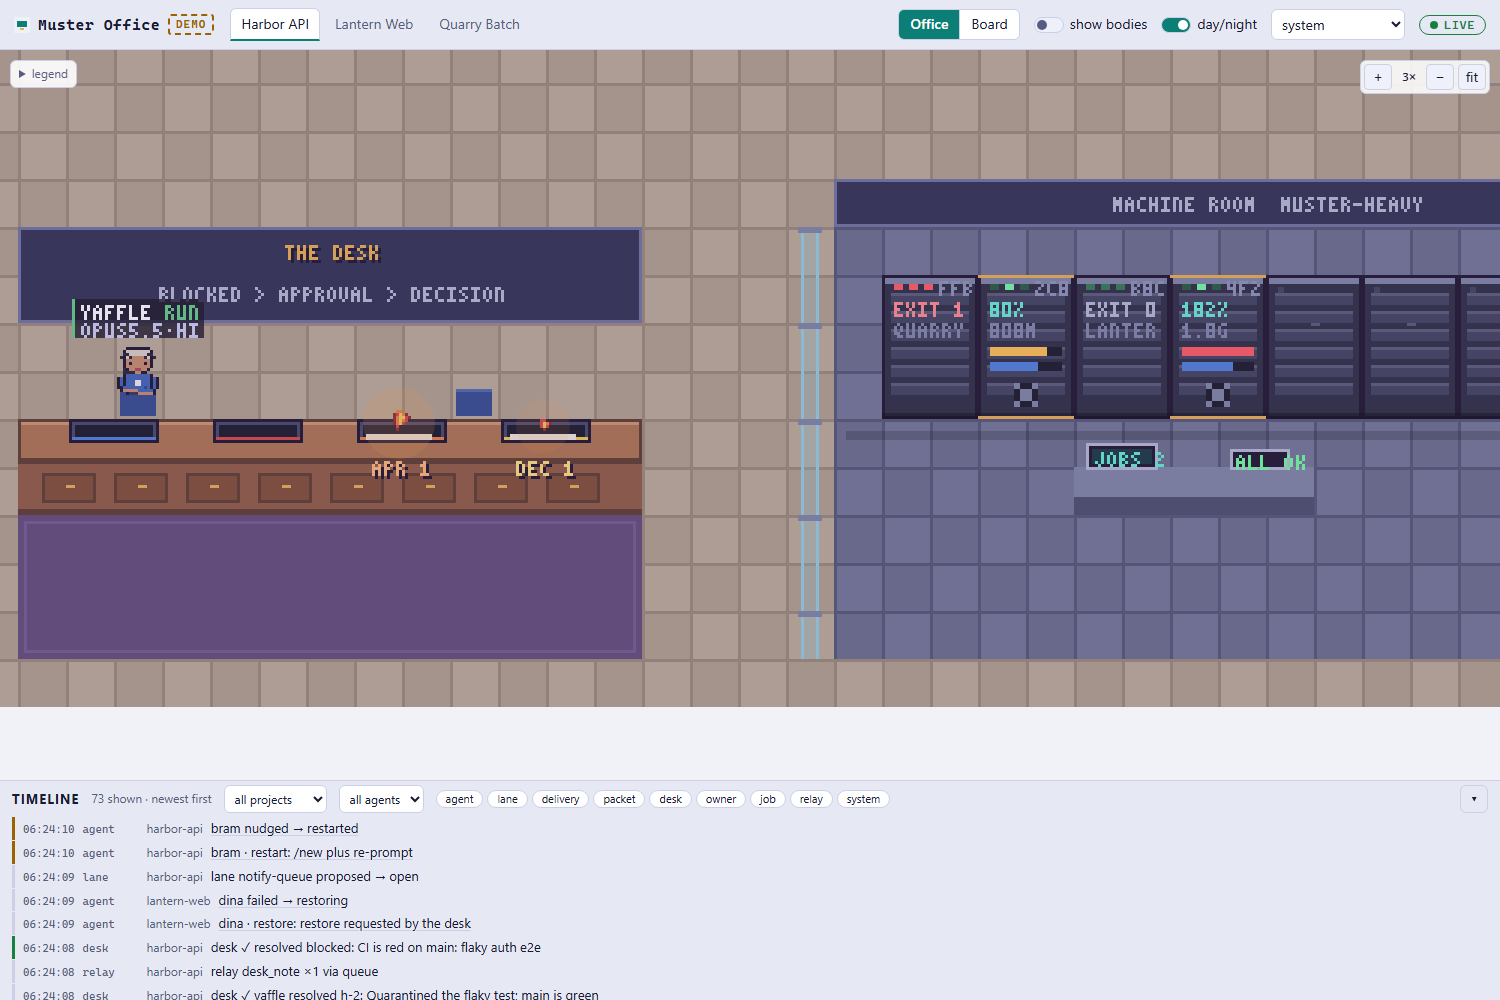
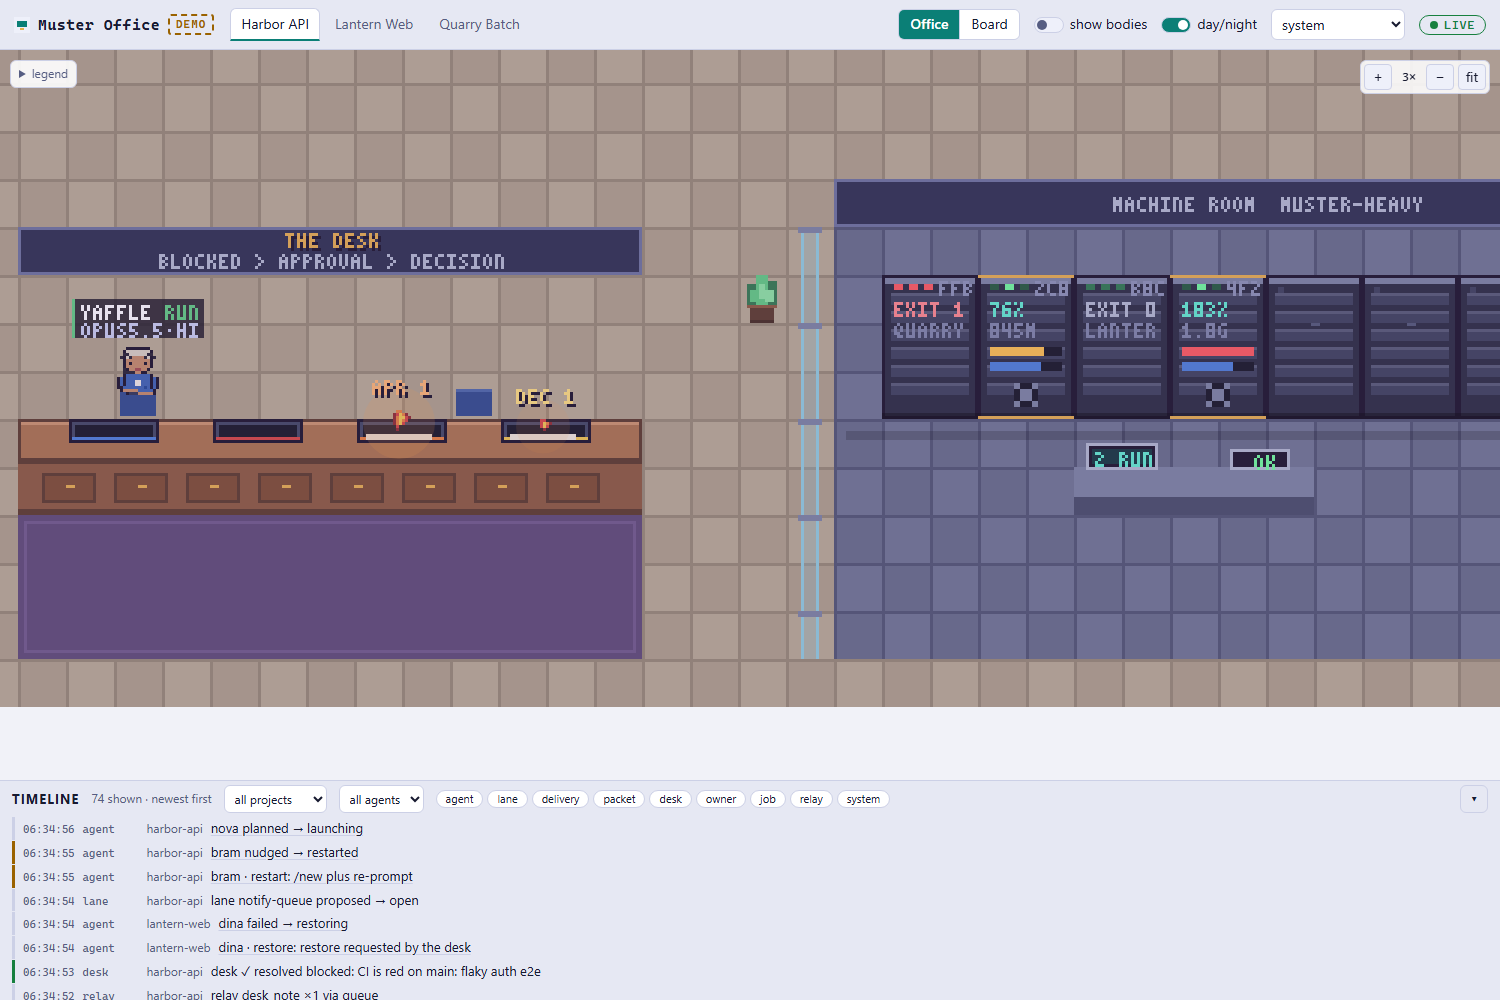
Polish: block proposed pods, dollar glyph, flight cap, refreshed screenshots

diff --git a/packages/web/test/layout.test.ts b/packages/web/test/layout.test.ts
@@ -78,6 +78,18 @@ describe("layoutFloor", () => {
     }
   });
 
+  it("makes proposed pods impassable while everything else stays reachable", () => {
+    const mixed = [...lanes(4), lane("idea-a", { state: "proposed", createdAt: "2026-10-02T00:00:00Z" }), lane("idea-b", { state: "proposed", createdAt: "2026-10-03T00:00:00Z" })];
+    const l = layoutFloor({ lanes: mixed });
+    const idea = l.bays.find((b) => b.lane.slug === "idea-a")!;
+    for (const d of idea.desks) expect(isWalkable(l, d.seat.x, d.seat.y)).toBe(false);
+    expect(isWalkable(l, idea.origin.x + 3, idea.origin.y + 3)).toBe(false); // the gap between desks
+    expect(reachable(l, idea.stand[0]!)).toBe(true); // the aisle in front of it is still open
+    for (const bay of l.bays.filter((b) => b.lane.state !== "proposed")) for (const d of bay.desks) expect(reachable(l, d.seat)).toBe(true);
+    for (const t of l.front.trays) expect(reachable(l, t.drop)).toBe(true);
+    for (const q of l.queue) expect(reachable(l, q)).toBe(true);
+  });
+
   it("walls off the machine room and its racks, but not the lobby", () => {
     const l = layoutFloor({ lanes: lanes(2), rackSlots: 14 });
     expect(l.machine.racks).toHaveLength(14);

diff --git a/packages/web/test/world.test.ts b/packages/web/test/world.test.ts
@@ -276,7 +276,7 @@ describe("delivery tokens, queue and desk", () => {
     w.sync(v.project, v.jobs, v.now, false);
     expect(w.tokens.get("auth-rework")?.mode).toBe("flight");
     expect(w.flights.some((f) => f.kind === "stamped")).toBe(true);
-    run(w, 6000, v.now);
+    run(w, 8000, v.now);
     expect(w.tokens.get("auth-rework")).toMatchObject({ pad: 0, to: 0, mode: "rest" });
     v = viewAt("harbor-api", 20);
     w.sync(v.project, v.jobs, v.now, false);

diff --git a/packages/web/test/sprites.test.ts b/packages/web/test/sprites.test.ts
@@ -57,7 +57,7 @@ describe("sprite set registry", () => {
 
 describe("bitmap font", () => {
   it("has a 3x5 glyph for every character the UI prints", () => {
-    for (const ch of "ABCDEFGHIJKLMNOPQRSTUVWXYZ0123456789.,:;-+/|%()[]!?><=_'\"*#@& ·") {
+    for (const ch of "ABCDEFGHIJKLMNOPQRSTUVWXYZ0123456789.,:;-+/|%$()[]!?><=_'\"*#@& ·") {
       const g = glyph(ch);
       expect(g).toHaveLength(5);
       for (const row of g) expect(row).toHaveLength(3);

diff --git a/packages/web/src/office/layout.ts b/packages/web/src/office/layout.ts
@@ -153,6 +153,8 @@ export function layoutFloor(input: { lanes: readonly LaneView[]; rackSlots?: num
       main: i === 1,
     }));
     for (const d of desks) fill(blocked, w, d.rect);
+    // A proposed lane is only a dotted outline of a desk: nobody walks through it.
+    if (lane.state === "proposed") fill(blocked, w, { x: bx, y: by + 1, w: 11, h: 5 });
     // The sign row is decoration, not floor.
     fill(blocked, w, { x: bx, y: by, w: 11, h: 1 });
 

diff --git a/packages/web/src/office/font.ts b/packages/web/src/office/font.ts
@@ -49,6 +49,7 @@ const G: Record<string, string> = {
   "/": "..#|..#|.#.|#..|#..",
   "|": ".#.|.#.|.#.|.#.|.#.",
   "%": "#.#|..#|.#.|#..|#.#",
+  $: ".##|##.|.#.|.##|##.",
   "(": ".##|#..|#..|#..|.##",
   ")": "##.|..#|..#|..#|##.",
   "[": "##.|#..|#..|#..|##.",

diff --git a/packages/web/src/office/world.ts b/packages/web/src/office/world.ts
@@ -515,7 +515,7 @@ export class OfficeWorld {
     this.flights.push({
       pts,
       t: 0,
-      dur: Math.max(900, pts.length * 120),
+      dur: Math.min(5000, Math.max(900, pts.length * 120)),
       kind: "stamped",
       arc: 6,
       onDone: () => {
